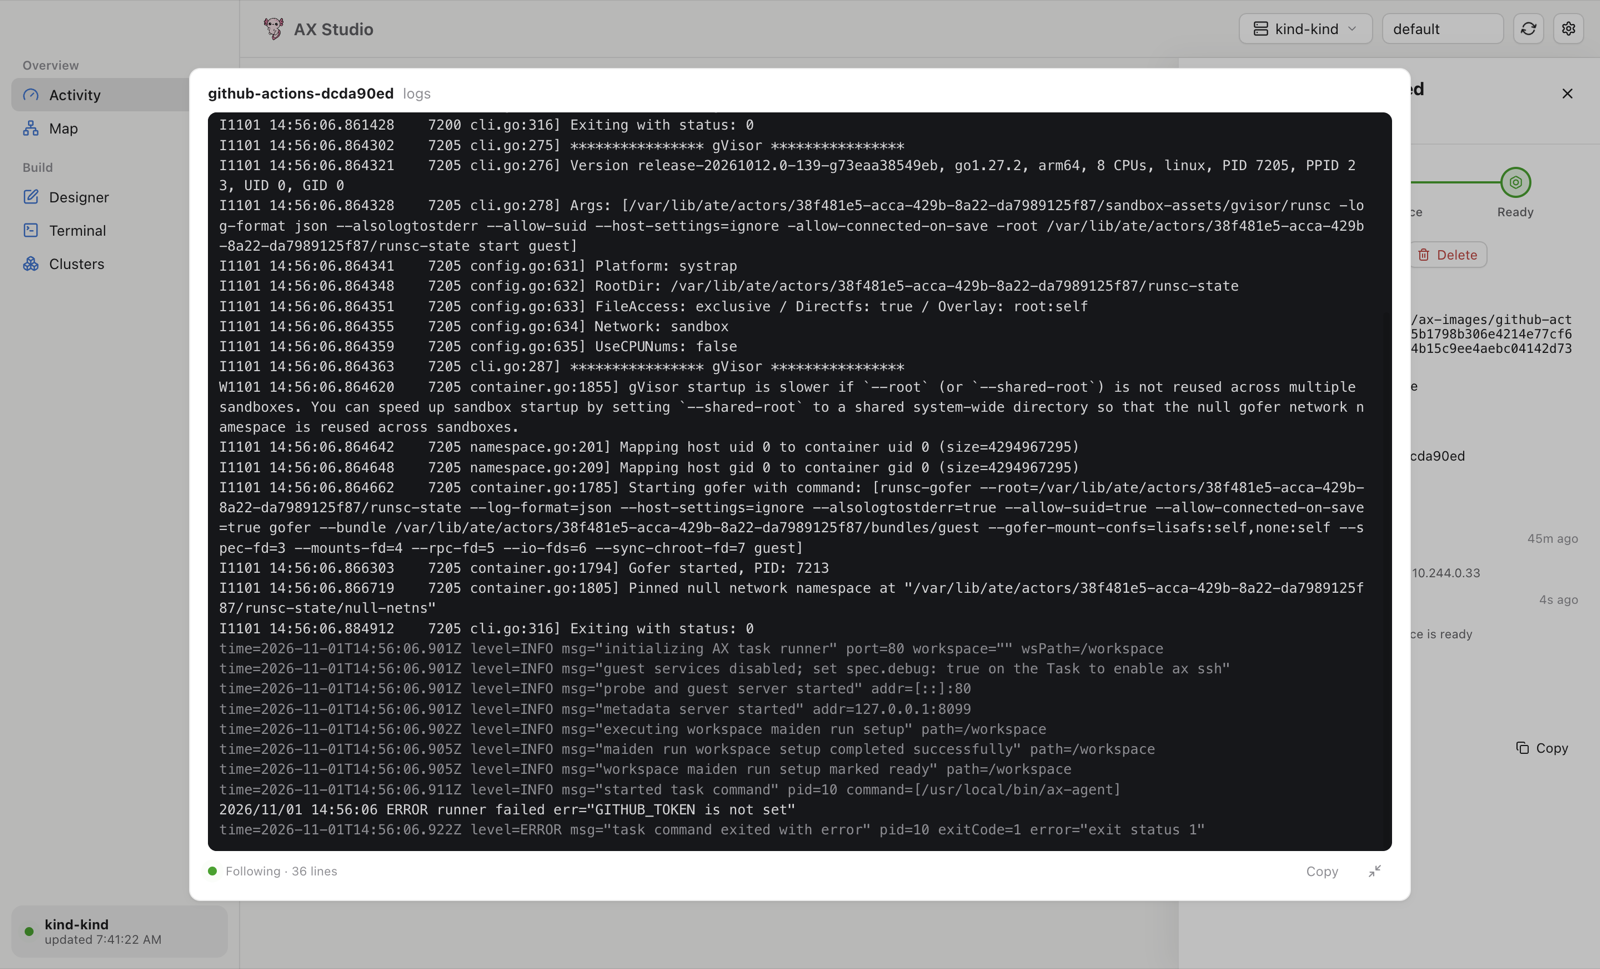
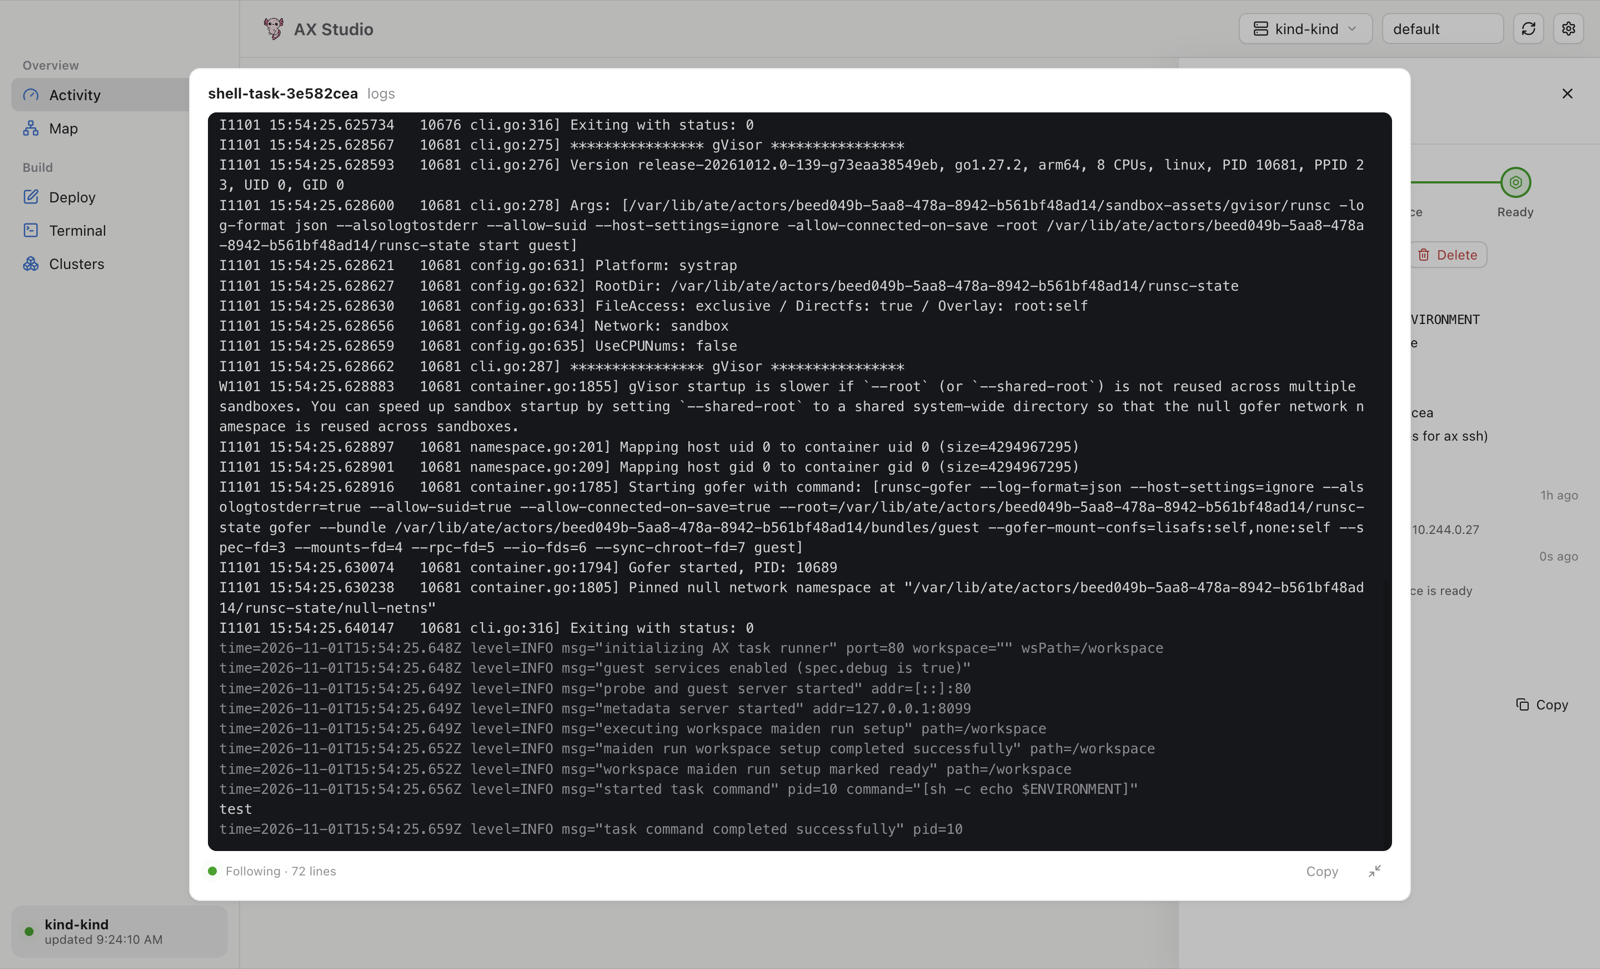
Rename Designer to Deploy and update screenshots

diff --git a/src/renderer/src/views/Topology.tsx b/src/renderer/src/views/Topology.tsx
@@ -198,7 +198,7 @@ export function Topology() {
         <div className="topo-scroll dotgrid" ref={scroller}
           onDoubleClick={(e) => { if (!(e.target as HTMLElement).closest('.topo-node')) setZoom(1) }}>
           {empty ? (
-            <Empty icon={Network} title="Nothing to draw yet">Create a Workspace or Task in the Designer to see it here.</Empty>
+            <Empty icon={Network} title="Nothing to draw yet">Create a Workspace or Task in Deploy to see it here.</Empty>
           ) : (
             <div className="topo-sizer" ref={sizer} style={{ width: graph.width * zoom, height: graph.height * zoom }}>
               <div className="topo-canvas" style={{ width: graph.width, height: graph.height, transform: `scale(${zoom}) translateX(${-graph.left}px)` }}>

diff --git a/src/renderer/src/views/TerminalSession.tsx b/src/renderer/src/views/TerminalSession.tsx
@@ -215,7 +215,7 @@ export function TerminalSession({ tab, active }: { tab: TerminalTab; active: boo
         </button>
       </div>
       {tab.context === s.context && s.details[t.id]?.debug === false && (
-        <div className="term-banner caption">Debug is off for this task, so ax ssh may not connect. Turn on Debug in the Designer and create it again.</div>
+        <div className="term-banner caption">Debug is off for this task, so ax ssh may not connect. Turn on Debug in Deploy and create it again.</div>
       )}
       <div className="term-body">
         <div ref={host} className="term-host" />

diff --git a/src/renderer/src/App.tsx b/src/renderer/src/App.tsx
@@ -16,7 +16,7 @@ import './styles/app.css'
 const SECTIONS: { id: Section; title: string; icon: LucideIcon; group: 'Overview' | 'Build' }[] = [
   { id: 'overview', title: 'Activity', icon: Gauge, group: 'Overview' },
   { id: 'topology', title: 'Map', icon: Network, group: 'Overview' },
-  { id: 'designer', title: 'Designer', icon: SquarePen, group: 'Build' },
+  { id: 'designer', title: 'Deploy', icon: SquarePen, group: 'Build' },
   { id: 'terminal', title: 'Terminal', icon: SquareTerminal, group: 'Build' },
   { id: 'clusters', title: 'Clusters', icon: Boxes, group: 'Build' },
 ]

diff --git a/src/renderer/src/views/Designer.tsx b/src/renderer/src/views/Designer.tsx
@@ -48,7 +48,7 @@ export function Designer() {
   return (
     <div className="designer">
       <div className="designer-head">
-        <PageHeader title="Designer" subtitle="Compose a task, its workspace and model, then create them.">
+        <PageHeader title="Deploy" subtitle="Compose a task, its workspace and model, then create them.">
           <div className="row">
             <Dropdown label={<><LayoutGrid size={14} />Templates</>}>
               {(close) => TEMPLATES.map((t, i) => (

diff --git a/src/renderer/src/views/Board.tsx b/src/renderer/src/views/Board.tsx
@@ -88,7 +88,7 @@ export function TaskBoard({ before }: { before?: ReactNode }) {
           <div className="card board-empty">
             <Empty icon={Rows3} title="No tasks in this atespace">
               <button className="btn small" style={{ marginTop: 8 }} onClick={() => store.setSection('designer')}>
-                <Plus size={12} /> Design a task
+                <Plus size={12} /> Deploy a task
               </button>
             </Empty>
           </div>

diff --git a/src/main/index.ts b/src/main/index.ts
@@ -85,7 +85,7 @@ function act(action: string, show = true) {
 
 function buildMenu() {
   const sections = ['overview', 'topology', 'designer', 'terminal', 'clusters']
-  const titles = ['Activity', 'Map', 'Designer', 'Terminal', 'Clusters']
+  const titles = ['Activity', 'Map', 'Deploy', 'Terminal', 'Clusters']
   const template: MenuItemConstructorOptions[] = [
     ...(isMac ? [{ role: 'appMenu' as const }] : []),
     {

diff --git a/README.md b/README.md
@@ -9,14 +9,14 @@ AX clusters. Built with Electron, React and TypeScript for macOS, Windows and Li
   atespace's workspaces. Resume, suspend or delete tasks, inspect conditions,
   follow logs and delete workspaces.
 - **Map:** a graph of sources, workspaces and tasks.
-- **Designer:** build tasks with a form or raw YAML, then create them.
+- **Deploy:** build tasks with a form or raw YAML, then create them.
 - **Terminal:** sessions into running tasks over `ax ssh`, in tabs that stay
   connected while you use the rest of the app.
 - **Clusters:** create, inspect and delete local AX clusters on kind.
 
 | | |
 |---|---|
-| ![Map](docs/screenshots/topology.png) **Map** | ![Designer](docs/screenshots/designer.png) **Designer** |
+| ![Map](docs/screenshots/topology.png) **Map** | ![Deploy](docs/screenshots/designer.png) **Deploy** |
 | ![Clusters](docs/screenshots/clusters.png) **Clusters** | ![Task logs](docs/screenshots/logs.png) **Task logs** |
 
 The app calls the `ax` CLI and `kubectl`. It passes `--context` on every call,
